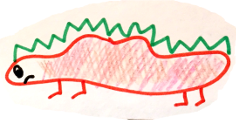
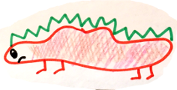
smaller dino, tighter physics, clouds

diff --git a/js/Game.js b/js/Game.js
@@ -2,38 +2,47 @@ Monday.Game = function (game) {
   this.dino;
   this.cursors;
   this.jumpButton;
-  this.jumpTimer = 0;
 };
 
 Monday.Game.prototype.create = function () {
   this.physics.startSystem(Phaser.Physics.ARCADE);
 
   this.add.image(0, 0, 'background');
+  this.add.image(25, 30, 'cloud1');
+  this.add.image(500, 130, 'cloud2');
+  this.add.image(200, 175, 'cloud3');
+  this.add.image(350, 25, 'cloud3');
 
-  this.physics.arcade.gravity.y = 250;
+  this.physics.arcade.gravity.y = 300;
 
-  this.dino = this.add.sprite(0, 0, 'dinoClide');
+  this.dino = this.add.sprite(450, 300, 'dinoClide');
   this.physics.enable(this.dino, Phaser.Physics.ARCADE);
 
   this.dino.body.collideWorldBounds = true;
+  this.dino.body.gravity.y = 1000;
+  this.dino.body.maxVelocity.y = 500;
 
   this.score = 0;
 
-  this.cursors = this.input.keyboard.createCursorKeys();
+  this.cursors = {
+    up: Phaser.Keyboard.W,
+    down: Phaser.Keyboard.S,
+    left: Phaser.Keyboard.A,
+    right: Phaser.Keyboard.D
+  };
   this.jumpButton = this.input.keyboard.addKey(Phaser.Keyboard.SPACEBAR);
 };
 
 Monday.Game.prototype.update = function () {
   this.dino.body.velocity.x = 0;
 
-  if (this.cursors.left.isDown) {
+  if (this.input.keyboard.isDown(this.cursors.left)) {
     this.dino.body.velocity.x = -150;
-  } else if (this.cursors.right.isDown) {
+  } else if (this.input.keyboard.isDown(this.cursors.right)) {
     this.dino.body.velocity.x = 150;
   }
 
-  if (this.jumpButton.isDown && this.dino.body.onFloor() && this.time.now > this.jumpTimer) {
-    this.dino.body.velocity.y = -250;
-    this.jumpTimer = this.time.now + 750;
+  if (this.jumpButton.isDown && this.dino.body.onFloor()) {
+    this.dino.body.velocity.y = -400;
   }
 };

diff --git a/js/Preload.js b/js/Preload.js
@@ -11,6 +11,9 @@ Monday.Preloader.prototype.preload = function () {
   this.load.setPreloadSprite(this.preloadBar);
 
   this.load.image('background', 'assets/background.jpg');
+  this.load.image('cloud1', 'assets/cloud1.png');
+  this.load.image('cloud2', 'assets/cloud2.png');
+  this.load.image('cloud3', 'assets/cloud3.png');
   this.load.image('dinoClide', 'assets/dinoClide.png');
 };
 
